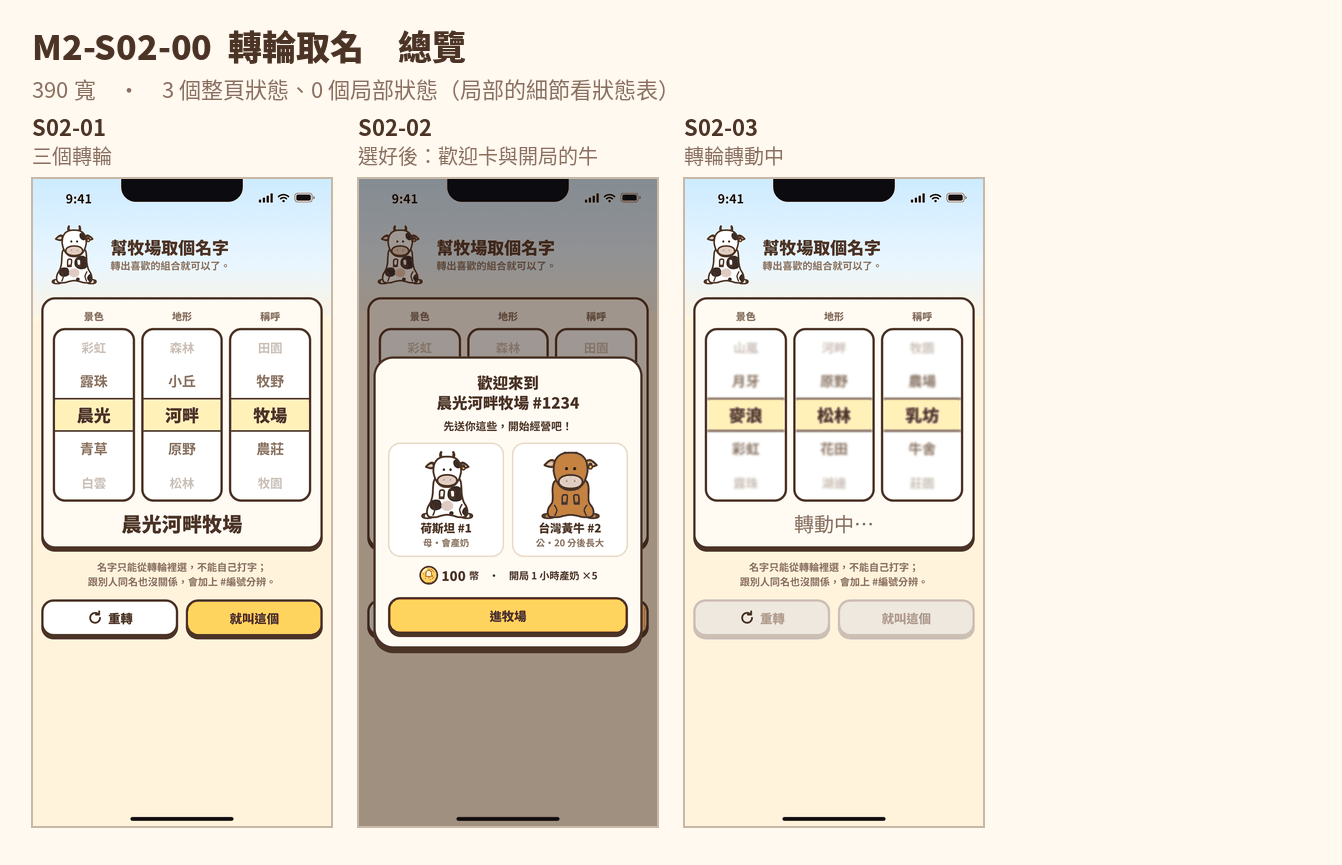
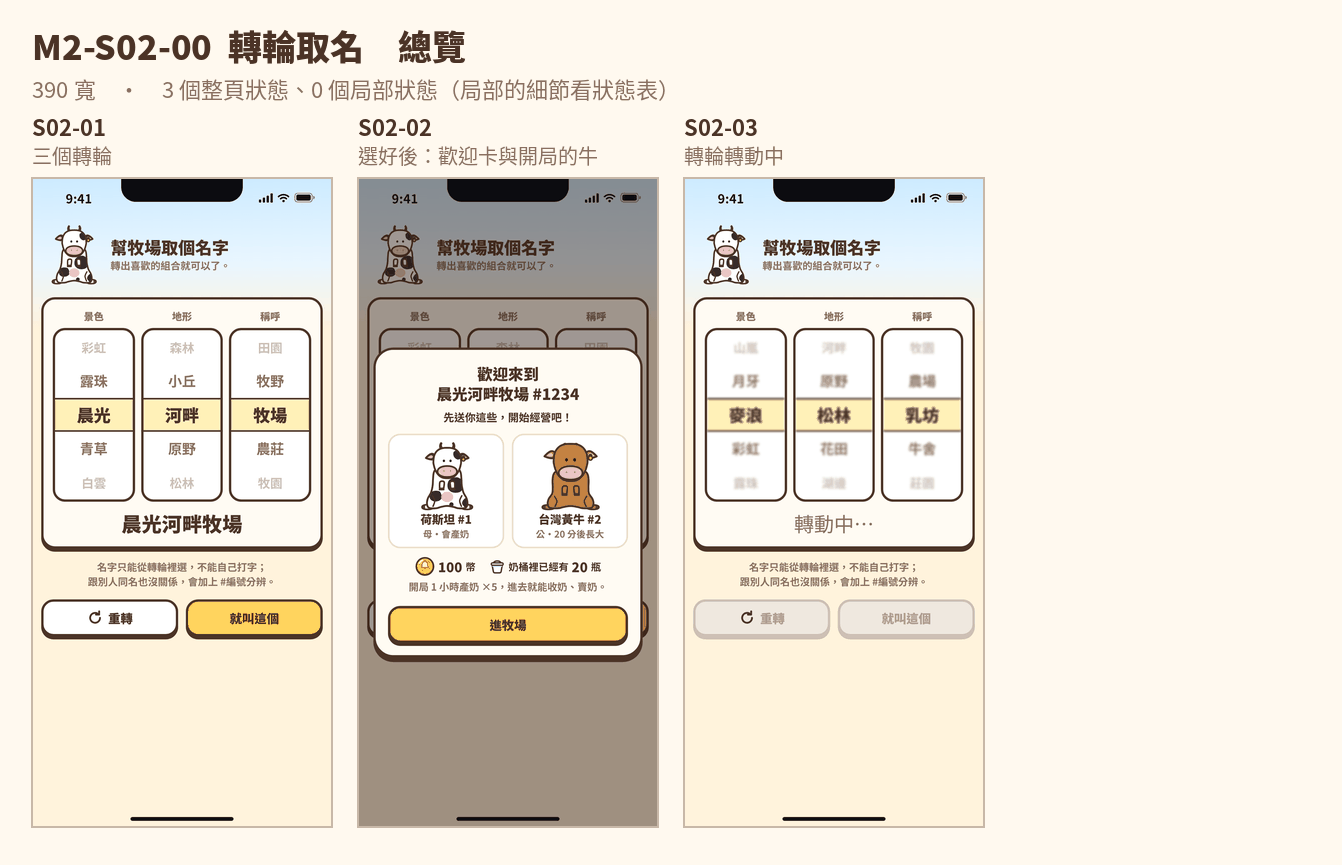
M2：歡迎卡補「奶桶裡已經有 20 瓶」（企劃書 4.13）；README 標明兩個場景改動

Changed region(s): [[0.275, 0.3746, 0.4888, 0.7803]]

diff --git a/design/m2/src/js/screens/s02.js b/design/m2/src/js/screens/s02.js
@@ -41,7 +41,8 @@ full('S02-02', '選好後：歡迎卡與開局的牛', (ctx) => page(ctx, {
         <div class="gift">${cowSVG({ breed: 'holstein' }, { w: 96, h: 96, pose: 'front' })}<b>荷斯坦 #1</b><span>母・會產奶</span></div>
         <div class="gift">${cowSVG({ breed: 'yellow', sex: 'bull', age: 'calf', seed: 33 }, { w: 96, h: 96, pose: 'front' })}<b>台灣黃牛 #2</b><span>公・20 分後長大</span></div>
       </div>
-      <div class="gift-coin">${icon('coin', 26)}<b class="num">100</b> 幣　・　開局 1 小時產奶 ×5</div>`,
+      <div class="gift-coin">${icon('coin', 26)}<b class="num">100</b> 幣　${icon('pail', 22)}奶桶裡已經有 <b class="num">20</b> 瓶</div>
+      <p class="hint" style="text-align:center;margin-top:4px">開局 1 小時產奶 ×5，進去就能收奶、賣奶。</p>`,
     buttons: btn('進牧場', { kind: 'primary', block: true }),
   }),
 }));

diff --git a/design/m2/README.md b/design/m2/README.md
@@ -75,6 +75,8 @@
 
 ## 這一版做的設計決定（請特別看）
 
+- 奶桶滿了（S03-02）：三頭產奶的母牛都轉正面，「奶桶滿了」泡泡只放一個（在荷斯坦頭上），免得畫面太亂。第 11 輪的畫面只有荷斯坦轉正面；企劃書 4.2 寫的是「產奶的牛轉正面」。如果要只轉一頭，請說。
+- 牧場場景裡的牛換成假資料裡的牛：耕牛（台灣黃牛、高地牛）在田裡工作，所以不在牧場場景裡；多了和牛和娟珊公牛。牛的畫法沒有改。
 - 導覽：6 個分頁（牧場、市場、田地、配種、商店、紀錄），設定在頂列右邊的齒輪（ceo 同意）。
 - 頂列：牧場名、等級、經驗條（這一級的累積收入進度）、金幣；金幣一百萬以上寫「萬」（窄手機十萬以上）。
 - 牧場頁的奶桶卡：寫「約幾分後滿」，而不是每小時產量；滿了寫「滿了，停止產奶」。
